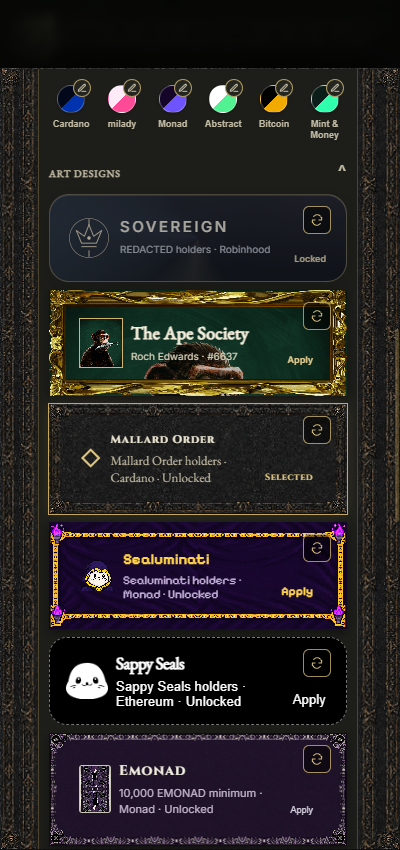
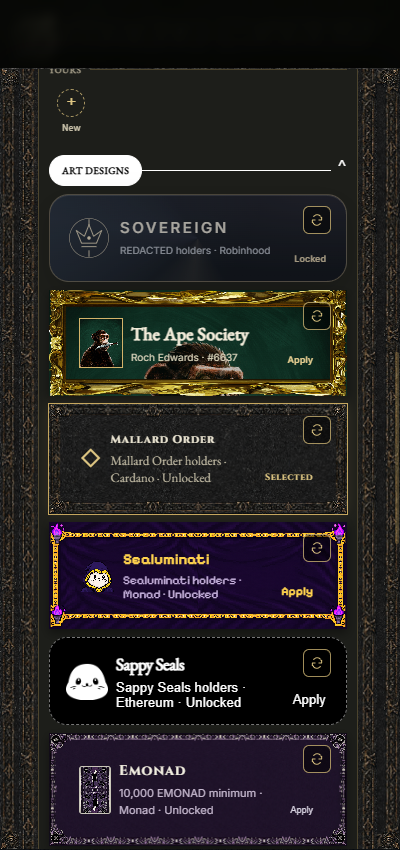
theme category fixes

diff --git a/src/renderer/pages/SettingsModal.tsx b/src/renderer/pages/SettingsModal.tsx
@@ -545,31 +545,6 @@ export function SettingsModal({ onClose, onDeleteWallet }: Props) {
                 onEdit={() => setThemeEditor({ kind: 'builtin', def: t })}
               />
             ))}
-            {[{name:'Art Designs',material:false},{name:'Material Designs',material:true}].map(group => (
-              <details key={group.name} className="theme-design-section" open>
-                <summary>{group.name}<span aria-hidden="true">⌄</span></summary>
-                <div className="theme-design-list">
-            {THEMES.filter(t => t.art && !!t.material === group.material).map(t => (
-              <div key={t.id} className="art-theme-entry">
-              <button
-                type="button"
-                className={`art-theme-card art-theme-${t.id}${theme === t.id && collectionAccess.allowed(t.id) && (t.id !== 'sovereign' || sovereignAllowed()) && (t.id !== 'ape-society' || apeAccess.allowed()) ? ' active' : ''}`}
-                aria-pressed={theme === t.id && collectionAccess.allowed(t.id) && (t.id !== 'sovereign' || sovereignAllowed()) && (t.id !== 'ape-society' || apeAccess.allowed())}
-                disabled={!collectionAccess.allowed(t.id) || t.id === 'sovereign' && !sovereignAllowed() || t.id === 'ape-society' && !apeAccess.allowed()}
-                onClick={() => { setTheme(t.id); setThemeState(t.id) }}
-              >
-                <span className="art-theme-mark" aria-hidden="true">◇</span>
-                <span className="art-theme-copy"><strong>{t.name}</strong><span>{isCollectionTheme(t.id) ? collectionAccess.get(t.id).status === 'error' ? 'Ownership unavailable · Retry' : COLLECTION_GATES[t.id].requirement + (collectionAccess.allowed(t.id) ? ' · Unlocked' : '') : t.id === 'sovereign' ? holderAccess.status === 'owned' ? privacy === false ? `${holderAccess.balance} REDACTED · Unlocked` : 'REDACTED verified · Unlocked' : holderAccess.status === 'error' ? 'Ownership unavailable · Retry' : 'REDACTED holders · Robinhood' : t.id === 'ape-society' ? apeAccess.allowed() ? `${apeState.selected?.name} · #${apeState.selected?.id}` : apeState.status === 'error' ? 'Ownership or artwork unavailable · Retry' : 'Ape Society holders · Ethereum' : t.artDescription}</span></span>
-                <span className="art-theme-status">{isCollectionTheme(t.id) && !collectionAccess.allowed(t.id) ? collectionAccess.get(t.id).checking ? 'Checking' : 'Locked' : t.id === 'ape-society' && !apeAccess.allowed() ? apeState.status==='checking' ? 'Checking' : 'Locked' : t.id === 'sovereign' && !sovereignAllowed() ? holderAccess.checking ? 'Checking' : 'Locked' : theme === t.id ? 'Selected' : 'Apply'}</span>
-              </button>
-              {(isCollectionTheme(t.id) || t.id === 'sovereign' || t.id === 'ape-society') && <button type="button" className="holder-theme-refresh" aria-label={isCollectionTheme(t.id) ? `Refresh ${t.name} ownership` : t.id === 'sovereign' ? 'Recheck ownership' : 'Refresh owned apes'} title={isCollectionTheme(t.id) ? `Refresh ${t.name} ownership` : t.id === 'sovereign' ? 'Recheck ownership' : 'Refresh owned apes'} disabled={isCollectionTheme(t.id) ? collectionAccess.get(t.id).checking : t.id === 'sovereign' ? holderAccess.checking : apeState.status === 'checking'} onClick={() => { if(isCollectionTheme(t.id))void collectionAccess.refresh(t.id);else if(t.id === 'sovereign')void refreshSovereignAccess();else void apeAccess.refresh() }}><svg width="14" height="14" viewBox="0 0 24 24" fill="none" stroke="currentColor" strokeWidth="1.6" aria-hidden="true"><path d="M20 7v5h-5M4 17v-5h5"/><path d="M6 7a7 7 0 0 1 12-1l2 3M4 15l2 3a7 7 0 0 0 12-1"/></svg></button>}
-              {t.id==='sappy-seals-art' && theme===t.id && collectionAccess.allowed(t.id) && <SappySealAppearance/>}
-              {t.id === 'ape-society' && theme === t.id && apeAccess.allowed() && <ApeThemePicker />}
-              </div>
-            ))}
-                </div>
-              </details>
-            ))}
             <div className="theme-picker-group">Yours</div>
             {customThemes.map(t => (
               <ThemeSwatch
@@ -593,6 +568,31 @@ export function SettingsModal({ onClose, onDeleteWallet }: Props) {
                 <span className="theme-swatch-name">New</span>
               </button>
             )}
+            {[{name:'Art Designs',material:false},{name:'Material Designs',material:true}].map(group => (
+              <details key={group.name} className="theme-design-section">
+                <summary><span className="theme-design-label">{group.name}</span><span className="theme-design-line" aria-hidden="true"/><span className="theme-design-chevron" aria-hidden="true">⌄</span></summary>
+                <div className="theme-design-list">
+            {THEMES.filter(t => t.art && !!t.material === group.material).map(t => (
+              <div key={t.id} className="art-theme-entry">
+              <button
+                type="button"
+                className={`art-theme-card art-theme-${t.id}${theme === t.id && collectionAccess.allowed(t.id) && (t.id !== 'sovereign' || sovereignAllowed()) && (t.id !== 'ape-society' || apeAccess.allowed()) ? ' active' : ''}`}
+                aria-pressed={theme === t.id && collectionAccess.allowed(t.id) && (t.id !== 'sovereign' || sovereignAllowed()) && (t.id !== 'ape-society' || apeAccess.allowed())}
+                disabled={!collectionAccess.allowed(t.id) || t.id === 'sovereign' && !sovereignAllowed() || t.id === 'ape-society' && !apeAccess.allowed()}
+                onClick={() => { setTheme(t.id); setThemeState(t.id) }}
+              >
+                <span className="art-theme-mark" aria-hidden="true">◇</span>
+                <span className="art-theme-copy"><strong>{t.name}</strong><span>{isCollectionTheme(t.id) ? collectionAccess.get(t.id).status === 'error' ? 'Ownership unavailable · Retry' : COLLECTION_GATES[t.id].requirement + (collectionAccess.allowed(t.id) ? ' · Unlocked' : '') : t.id === 'sovereign' ? holderAccess.status === 'owned' ? privacy === false ? `${holderAccess.balance} REDACTED · Unlocked` : 'REDACTED verified · Unlocked' : holderAccess.status === 'error' ? 'Ownership unavailable · Retry' : 'REDACTED holders · Robinhood' : t.id === 'ape-society' ? apeAccess.allowed() ? `${apeState.selected?.name} · #${apeState.selected?.id}` : apeState.status === 'error' ? 'Ownership or artwork unavailable · Retry' : 'Ape Society holders · Ethereum' : t.artDescription}</span></span>
+                <span className="art-theme-status">{isCollectionTheme(t.id) && !collectionAccess.allowed(t.id) ? collectionAccess.get(t.id).checking ? 'Checking' : 'Locked' : t.id === 'ape-society' && !apeAccess.allowed() ? apeState.status==='checking' ? 'Checking' : 'Locked' : t.id === 'sovereign' && !sovereignAllowed() ? holderAccess.checking ? 'Checking' : 'Locked' : theme === t.id ? 'Selected' : 'Apply'}</span>
+              </button>
+              {(isCollectionTheme(t.id) || t.id === 'sovereign' || t.id === 'ape-society') && <button type="button" className="holder-theme-refresh" aria-label={isCollectionTheme(t.id) ? `Refresh ${t.name} ownership` : t.id === 'sovereign' ? 'Recheck ownership' : 'Refresh owned apes'} title={isCollectionTheme(t.id) ? `Refresh ${t.name} ownership` : t.id === 'sovereign' ? 'Recheck ownership' : 'Refresh owned apes'} disabled={isCollectionTheme(t.id) ? collectionAccess.get(t.id).checking : t.id === 'sovereign' ? holderAccess.checking : apeState.status === 'checking'} onClick={() => { if(isCollectionTheme(t.id))void collectionAccess.refresh(t.id);else if(t.id === 'sovereign')void refreshSovereignAccess();else void apeAccess.refresh() }}><svg width="14" height="14" viewBox="0 0 24 24" fill="none" stroke="currentColor" strokeWidth="1.6" aria-hidden="true"><path d="M20 7v5h-5M4 17v-5h5"/><path d="M6 7a7 7 0 0 1 12-1l2 3M4 15l2 3a7 7 0 0 0 12-1"/></svg></button>}
+              {t.id==='sappy-seals-art' && theme===t.id && collectionAccess.allowed(t.id) && <SappySealAppearance/>}
+              {t.id === 'ape-society' && theme === t.id && apeAccess.allowed() && <ApeThemePicker />}
+              </div>
+            ))}
+                </div>
+              </details>
+            ))}
           </div>
           <p className="theme-picker-note">
             {`Tap the pencil to recolour a colour theme — a built-in can be reverted to how it shipped at any time. Art themes also change the artwork, borders and fonts. `}

diff --git a/e2e/art-themes.spec.ts b/e2e/art-themes.spec.ts
@@ -1,3 +1,4 @@
+import { expandThemeDesigns } from './support/theme-designs'
 import { installCollectionFixture } from './collection-fixture'
 import { installApeFixture } from './ape-fixture'
 import { expect, test, chromium } from '@playwright/test'
@@ -85,6 +86,11 @@ test(`${theme.name} selects, persists, previews cleanly and leaves other themes 
       await expect(artSection.locator('.art-theme-card')).toHaveCount(7)
       await expect(materials.locator('.art-theme-card')).toHaveCount(6)
       await expect(artSection.locator('.art-theme-liquid-glass')).toHaveCount(0)
+      await expect(artSection).not.toHaveAttribute('open');await expect(materials).not.toHaveAttribute('open')
+      expect(await page.locator('.theme-swatch-new').evaluate(el=>!!(el.compareDocumentPosition(document.querySelector('details.theme-design-section')!)&Node.DOCUMENT_POSITION_FOLLOWING))).toBe(true)
+      for(const section of [artSection,materials]){await expect(section.locator('.theme-design-label')).toHaveCSS('background-color','rgb(255, 255, 255)');await expect(section.locator('.theme-design-label')).toHaveCSS('color','rgb(0, 0, 0)');await expect(section.locator('.theme-design-line')).toHaveCSS('background-color','rgb(255, 255, 255)')}
+      await artSection.locator('summary').click();await expect(artSection.locator('.art-theme-mallard-order')).toBeVisible();await expect(materials.locator('.art-theme-liquid-glass')).toBeHidden()
+      await materials.locator('summary').click()
       await artSection.locator('summary').click();await expect(artSection.locator('.art-theme-mallard-order')).toBeHidden()
       await expect(materials.locator('.art-theme-liquid-glass')).toBeVisible()
       await materials.locator('summary').click();await expect(materials.locator('.art-theme-liquid-glass')).toBeHidden()
@@ -92,6 +98,7 @@ test(`${theme.name} selects, persists, previews cleanly and leaves other themes 
       await artSection.locator('summary').focus();await page.keyboard.press('Enter');await expect(artSection.locator('.art-theme-mallard-order')).toBeVisible()
       await materials.locator('summary').click();await expect(materials.locator('.art-theme-liquid-glass')).toBeVisible()
     }
+    await expandThemeDesigns(page)
     const art = page.getByRole('button', { name: new RegExp(`^${theme.name}`) })
     if (theme.id === 'emonad') {
       const ids = await page.locator('.art-theme-card').evaluateAll(els => els.map(el => el.className))
@@ -232,6 +239,7 @@ test(`${theme.name} selects, persists, previews cleanly and leaves other themes 
     await page.screenshot({ path: `test-results/${theme.id}-swap-400.png` })
     await page.locator('.bottom-nav-btn').filter({ hasText: /^Portfolio$/i }).click()
     await page.locator('button[title="Settings"]').filter({ visible: true }).first().click()
+    await expandThemeDesigns(page)
     await page.locator('.theme-swatch-new').click()
     await expect(page.locator('html')).toHaveAttribute('data-theme', 'custom-preview')
     await expect(page.locator('.chain-card').first()).toHaveCSS('border-image-source', 'none')
@@ -252,6 +260,7 @@ test(`${theme.name} selects, persists, previews cleanly and leaves other themes 
     expect(await page.evaluate(() => localStorage.getItem('mm.theme'))).toBe(theme.id)
     if(theme.id === 'ape-society') {
       await page.locator('button[title="Settings"]').filter({visible:true}).first().click()
+    await expandThemeDesigns(page)
       const selector=page.getByRole('combobox',{name:'Theme ape',exact:true})
       await expect(selector).toBeVisible()
       await expect(page.getByRole('button',{name:'Refresh owned apes',exact:true})).toHaveCSS('width','28px')
@@ -264,6 +273,7 @@ test(`${theme.name} selects, persists, previews cleanly and leaves other themes 
       await expect(page.locator('html')).toHaveAttribute('data-theme','ape-society')
       await expect.poll(()=>page.evaluate(()=>document.documentElement.style.getPropertyValue('--ape-portrait'))).toContain('/6638.jpg')
       await page.locator('button[title="Settings"]').filter({visible:true}).first().click()
+    await expandThemeDesigns(page)
       apeControl.balance=0
       await page.getByRole('button',{name:'Refresh owned apes',exact:true}).click()
       await expect(art).toBeDisabled()
@@ -276,6 +286,7 @@ test(`${theme.name} selects, persists, previews cleanly and leaves other themes 
     }
     if(['mallard-order','sealuminati','r3tards','emonad','sappy-seals-art'].includes(theme.id)){
       await page.locator('button[title="Settings"]').filter({visible:true}).first().click()
+    await expandThemeDesigns(page)
       const refresh=page.getByRole('button',{name:`Refresh ${theme.name} ownership`,exact:true})
       await expect(refresh).toHaveCSS('width','28px')
       await art.scrollIntoViewIfNeeded();await page.screenshot({path:`.local-artifacts/collection-gates/${theme.id}-wallet.png`})

diff --git a/e2e/textures.spec.ts b/e2e/textures.spec.ts
@@ -1,3 +1,4 @@
+import { expandThemeDesigns } from './support/theme-designs'
 import { installCollectionFixture } from './collection-fixture'
 import { expect, test, chromium } from '@playwright/test'
 import { mkdtempSync } from 'node:fs'
@@ -60,6 +61,7 @@ test('textures compose with palettes and restore correctly', async () => {
     await page.getByText('Encrypt & Continue').click()
     await expect(page.getByText('Portfolio').first()).toBeVisible({ timeout: 30_000 })
     await page.locator('button[title="Settings"]').filter({ visible: true }).first().click()
+    await expandThemeDesigns(page)
 
     const choose = async (name: string) => {
       await page.locator('.texture-choice').filter({ hasText: new RegExp(`^${name}$`) }).click()
@@ -80,6 +82,7 @@ test('textures compose with palettes and restore correctly', async () => {
       await settle()
       await page.screenshot({ path: `test-results/texture-${id}-400.png` })
       await page.locator('button[title="Settings"]').filter({ visible: true }).first().click()
+    await expandThemeDesigns(page)
     }
     await twoToneSwitch.click()
     await expect(page.locator('html')).toHaveAttribute('data-surface-tone', 'layered')
@@ -88,6 +91,7 @@ test('textures compose with palettes and restore correctly', async () => {
     await settle()
     await page.screenshot({ path: 'test-results/texture-fade-two-tone-wallet-400.png' })
     await page.locator('button[title="Settings"]').filter({ visible: true }).first().click()
+    await expandThemeDesigns(page)
     await twoToneSwitch.click()
     for (const name of ['Moonlight','Crimson','Grape','Matrix','White & Gold','Midnight','Cardano','milady','Monad','Abstract','Bitcoin','Sappy Seals']) {
       await page.locator(`button.theme-swatch[title="${name}"]`).click()
@@ -116,6 +120,7 @@ test('textures compose with palettes and restore correctly', async () => {
     await page.screenshot({ path: 'test-results/texture-swap-400.png' })
     await page.locator('.bottom-nav-btn').filter({ hasText: /^Portfolio$/i }).click()
     await page.locator('button[title="Settings"]').filter({ visible: true }).first().click()
+    await expandThemeDesigns(page)
     await page.locator('button.theme-swatch[title="Grape"]').click()
     await choose('Glass')
     await twoToneSwitch.click()
@@ -124,6 +129,7 @@ test('textures compose with palettes and restore correctly', async () => {
     await expect(page.locator('.portfolio-header')).toHaveCSS('background-color', 'rgba(0, 0, 0, 0)')
     await page.screenshot({ path: 'test-results/texture-glass-lit-wallet-400.png' })
     await page.locator('button[title="Settings"]').filter({ visible: true }).first().click()
+    await expandThemeDesigns(page)
     await twoToneSwitch.click()
     await choose('Fine Grain')
     await page.getByRole('button', { name: /Liquid Glass/ }).click()
@@ -152,6 +158,7 @@ test('textures compose with palettes and restore correctly', async () => {
     await page.screenshot({path:'test-results/liquid-glass-swap-wallet.png'})
     await page.locator('.bottom-nav-btn').filter({hasText:/^Portfolio$/i}).click()
     await page.locator('button[title="Settings"]').filter({visible:true}).first().click()
+    await expandThemeDesigns(page)
     await choose('Fine Grain')
     await twoToneSwitch.click()
     await page.getByRole('button', { name: /^Mallard Order/ }).click()
@@ -167,6 +174,7 @@ test('textures compose with palettes and restore correctly', async () => {
     await expect(page.locator('html')).toHaveAttribute('data-surface-tone', 'matching')
     await expect(page.locator('html')).toHaveAttribute('data-material-active', '')
     await page.locator('button[title="Settings"]').filter({ visible: true }).first().click()
+    await expandThemeDesigns(page)
     await choose('Glass')
     await expect(page.locator('html')).not.toHaveAttribute('data-material-active')
     await expect(page.locator('.chain-card').first()).toHaveCSS('backdrop-filter', 'blur(22px) saturate(1.55)')

diff --git a/e2e/natural-materials.spec.ts b/e2e/natural-materials.spec.ts
@@ -1,3 +1,4 @@
+import { expandThemeDesigns } from './support/theme-designs'
 import { expect, test, chromium } from '@playwright/test'
 import { mkdtempSync } from 'node:fs'
 import { tmpdir } from 'node:os'
@@ -58,6 +59,7 @@ test('natural material skins preserve layout and actions', async () => {
     await page.getByText('Encrypt & Continue').click()
     await expect(page.getByText('Portfolio').first()).toBeVisible({ timeout: 30_000 })
     await page.locator('button[title="Settings"]').filter({ visible: true }).first().click()
+    await expandThemeDesigns(page)
 
 
     const materials = [['brushed-metal','Brushed Metal'],['leather','Leather'],['velvet','Velvet'],['walnut','Walnut'],['royal-silk','Royal Blue Silk']]
@@ -86,6 +88,7 @@ test('natural material skins preserve layout and actions', async () => {
       await settle(); await page.screenshot({path:`test-results/material-${id}-swap.png`})
       await page.locator('.bottom-nav-btn').filter({hasText:/^Portfolio$/i}).click()
       await page.locator('button[title="Settings"]').filter({visible:true}).first().click()
+    await expandThemeDesigns(page)
     }
     await page.locator('.theme-swatch-new').click()
     await expect(page.locator('html')).toHaveAttribute('data-derived')
@@ -96,6 +99,7 @@ test('natural material skins preserve layout and actions', async () => {
     await page.reload()
     await expect(page.locator('html')).toHaveAttribute('data-theme','royal-silk')
     await page.locator('button[title="Settings"]').filter({visible:true}).first().click()
+    await expandThemeDesigns(page)
     await page.locator('button.theme-swatch[title="Grape"]').click()
     await expect(page.locator('html')).toHaveAttribute('data-surface-active','')
     await expect(page.locator('.chain-card').first()).not.toHaveCSS('background-image',/materials/)

diff --git a/e2e/sovereign.spec.ts b/e2e/sovereign.spec.ts
@@ -1,3 +1,4 @@
+import { expandThemeDesigns } from './support/theme-designs'
 import { expect, test, chromium } from '@playwright/test'
 import { mkdtempSync } from 'node:fs'
 import { tmpdir } from 'node:os'
@@ -65,6 +66,7 @@ test('Sovereign motion, interactions, accessibility and theme lifecycle', async 
     await page.getByText('Encrypt & Continue').click()
     await expect(page.getByText('Portfolio').first()).toBeVisible({ timeout: 30_000 })
     await page.locator('button[title="Settings"]').filter({ visible: true }).first().click()
+    await expandThemeDesigns(page)
 
 
     await expect(page.getByRole('button', { name: /Sovereign/ })).toBeDisabled()
@@ -138,6 +140,7 @@ test('Sovereign motion, interactions, accessibility and theme lifecycle', async 
     await expect(page.locator('html')).toHaveAttribute('data-sv-motion','running')
     await page.locator('.bottom-nav-btn').filter({hasText:/^Portfolio$/i}).click()
     await page.locator('button[title="Settings"]').filter({visible:true}).first().click()
+    await expandThemeDesigns(page)
     await page.getByRole('button',{name:/Sovereign/}).scrollIntoViewIfNeeded()
     await settle(); await page.screenshot({path:'test-results/sovereign-picker.png'})
     await page.locator('.theme-swatch-new').click()
@@ -157,6 +160,7 @@ test('Sovereign motion, interactions, accessibility and theme lifecycle', async 
     await expect(page.locator('.sv-scene')).toHaveCount(1)
     expect(await page.evaluate(() => localStorage.getItem('mm.theme'))).toBe('sovereign')
     await page.locator('button[title="Settings"]').filter({visible:true}).first().click()
+    await expandThemeDesigns(page)
     holderBalance = 0
     await page.getByRole('button', {name:'Recheck ownership',exact:true}).click()
     await expect(page.locator('.sv-scene')).toHaveCount(0)

diff --git a/src/renderer/index.css b/src/renderer/index.css
@@ -2175,9 +2175,12 @@ h1, h2, h3 { font-family: var(--font-display); }
 
 /* Independent full-width disclosures preserve theme tiles and holder controls. */
 .theme-design-section { grid-column:1/-1; min-width:0; }
-.theme-design-section > summary { display:flex; align-items:center; justify-content:space-between; gap:12px; min-height:36px; padding:6px 0; color:var(--text-secondary); font-size:10px; font-weight:700; letter-spacing:.08em; text-transform:uppercase; cursor:pointer; list-style:none; }
-.theme-design-section > summary::-webkit-details-marker { display:none; }
-.theme-design-section > summary:focus-visible { outline:2px solid var(--accent); outline-offset:2px; border-radius:4px; }
-.theme-design-section > summary span { font-size:16px; line-height:1; }
-.theme-design-section[open] > summary span { transform:rotate(180deg); }
+/* White label pills with a connecting rail make each disclosure obvious. */
+.theme-design-section > summary {display:flex;align-items:center;min-height:44px;padding:6px 0;cursor:pointer;list-style:none;}
+.theme-design-section > summary::-webkit-details-marker {display:none;}
+.theme-design-section > summary:focus-visible {outline:2px solid #fff;outline-offset:3px;border-radius:999px;}
+.theme-design-label {padding:8px 12px;border:1px solid #fff;border-radius:999px;background:#fff;color:#000;font-family:var(--font-body);font-size:10px;font-weight:700;letter-spacing:.04em;text-transform:uppercase;white-space:nowrap;}
+.theme-design-line {flex:1;height:1px;background:#fff;}
+.theme-design-chevron {color:#fff;font-size:18px;line-height:1;padding-left:6px;}
+.theme-design-section[open] > summary .theme-design-chevron {transform:rotate(180deg);padding-left:0;padding-right:6px;}
 .theme-design-list { display:grid; gap:8px; padding:2px 0 6px; }

diff --git a/e2e/support/theme-designs.ts b/e2e/support/theme-designs.ts
@@ -1,0 +1,7 @@
+import type {Page} from '@playwright/test'
+/** Existing selection journeys open the new default-collapsed design groups explicitly. */
+export async function expandThemeDesigns(page:Page){
+  for(const section of await page.locator('details.theme-design-section').all()){
+    if(await section.getAttribute('open')===null)await section.locator('summary').click()
+  }
+}

diff --git a/HANDOFF.md b/HANDOFF.md
@@ -7,18 +7,19 @@ task: -
 lease_until: -
 repo: .
 verify: cmd /c "npm run typecheck && npm test"
-verified: 5dd914d · Five TS targets;four final renderer bundles;Sappy actual WebGL journey passes all13 SDK click groups, reduced-motion click suppression, final compact header/logo spacing, independent32px lift of seal-tabs-search and clear sparkline at360/400/1000. Screenshot reviewed. Existing holder/variant/reload/Send/Swap checks pass; .sappy-click-*.log. No native device QA/install/deploy. · 2026-10-12T01:58-03:00
-head: 5dd914d (main) dirty 15
-updated: 2026-10-12T01:58-03:00 · codex
+verified: c33b12e · User HEADc33b12e reconciled:final five TS targets/172files2510tests/four renderer bundles/two full Sappy-Mallard journeys pass. Default collapse,7art/6materials, white pills/black labels/rail, custom colours/New ordering, native keyboard and existing ownership/motion/variant/Send/Swap behavior verified. Screenshot reviewed; .wallet-pill-*.log. No native install/commit/deploy. · 2026-10-12T02:51-03:00
+head: c33b12e (main) dirty 15
+updated: 2026-10-12T02:51-03:00 · codex
 
 resources: -
 
 ## Now
+- Wallet theme picker matches ChainLens: builtin/custom colors/New above native default-collapsed Art Designs/Material Designs. White pills/black labels and white rail to chevron; keyboard/independent toggles, tile/gate/refresh/variant behavior retained. Five TS/172files2510tests/four renderer bundles/two Sappy-Mallard journeys pass; screenshot reviewed. .wallet-pill-*.log; .local-artifacts/design-sections/wallet-collapsed.png. User clean HEADc33b12e reconciled. No ChainLens edits/commit/deploy/phone install.
 - Sappy Seals art added locally (sappy-seals-art), Ethereum ERC721 gate0x364C828eE171616a39897688A831c2499aD972ec; Flat black/white, original locally bundled Live2D pointer/touch tracking over portfolio tabs. Correct texture.png default; texture_00.png alternate via28px shirt icon beside refresh. Seal reduced26%; heading padding16/4px, no extra margin; seal/tabs/search alone lifted32px near sparkline/plus to recover list space. Click/tap cycles all13 supplied motions; paused when reduced/hidden/offscreen. Four final renderer builds and Sappy/Mallard browser journeys pass, including measured Cubism motion, variants, reduced-motion, zero/error revocation. Final five TS targets and172files2510tests pass in .sappy-*.log; docs/SAPPY-SEALS-THEME.md; .local-artifacts/sappy-seals/. No ChainLens art adaptation/commit/deploy/install.
 - Default Sappy Seals colour preset replaced with Mint & Money (mint-money) in wallet/ChainLens: exact readonly cl_themes source custom-7aovlrf0py on requested ID ec18dcf5-3271-46fd-8029-41e5b2f39eed, bg0c1e19/accent30ffae/texte8f4ff. Old saved Sappy IDs migrate, old overrides do not carry, cached exact custom copies use absorptionv2 with built-in recolours protected. Mint migration counts were24/12colours; current wallet25 includes new Sappy art. Five TS;172files2508tests;4final bundles;wallet migration/selection/holder journey and3ChainLens colour/migration journeys pass;202Node tests. Screenshots reviewed;docs/MINT-MONEY-PRESET.md;.mint-money-*.log. No DB writes/commit/deploy/install.
 - Mallard staking coverage fixed locally after exact-user-address diagnosis: direct assets0, MallardOrder3348=1 at script address sharing wallet stake credential. Reader validates Bech32/network and locally derives stake1 credential, then checks exact account_assets only after direct0; current-session guards unchanged. Actual user-address production proof1 (.mallard-stake-live.log). Six focused tests;five TS targets;172files2505tests;four bundles;stake-only Mallard wallet journey and ChainLens Mallard journey pass;201Node tests. .mallard-stake-*.log. No phone install or website deploy; running wallet requires new build.
 - Mallard locked regression fixed locally: supplied policy correct; live website endpoint returns homepage HTML. Wallet now uses privileged getMallardOwnership direct Koios read of current unlocked payment address, reconfirmed after read; no web endpoint dependency. Canonical src/shared/mallard-policy.ts -> ChainLens mallard-policy-core.js. Five TS targets;172files2502tests;four bundles;wallet missing-HTML-endpoint/selection/refresh/reload/revocation journey and ChainLens Mallard journey pass;201Node tests. .mallard-native-*.log. Running wallet requires restart/update; no phone install or web deployment.
-- Appearance picker split into independent native Art Designs and Material Designs disclosures (six each; both initially expanded). Material metadata on Liquid Glass/Metal/Leather/Velvet/Walnut/Royal Silk; art retains gates/refresh/Ape dropdown. Keyboard/independent-collapse/selection checks and screenshots pass; .design-sections-*.log; .local-artifacts/design-sections/. No deploy/install.
+- Appearance picker split into independent native Art Designs and Material Designs disclosures (six each; both initially collapsed). Material metadata on Liquid Glass/Metal/Leather/Velvet/Walnut/Royal Silk; art retains gates/refresh/Ape dropdown. Keyboard/independent-collapse/selection checks and screenshots pass; .design-sections-*.log; .local-artifacts/design-sections/. No deploy/install.
 - Four collection gates complete locally: Mallard Cardano policy; Sealuminati/r3tards Monad ERC721; Emonad minimum10000 fungible tokens at18decimals. Shared90s proof/15s timeout/account guards; per-tile refresh; fixed-policy Cardano CORS endpoint. docs/COLLECTION-THEME-GATES.md; .collection-*.log; .local-artifacts/collection-gates/. No deploy/install.
 - Ape Society holder/owned-portrait feature complete locally: Ethereum contract0xF08Acc2f16Ddf2f5d047fcc4D39A6c528A9645af; paginated discovery candidates, block-bound balance/ownerOf/tokenURI proof, loaded IPFS art, per-owner/set token preferences,90s freshness/45s timeout/generation guards. Live production reader verifies Roch Edwards#6637; exact image downloaded/reviewed. Compact refresh icons on holder tiles and selected Ape dropdown. Five TS targets;170files2492tests;four bundles;6art/Sovereign journeys plus final selection rerun pass. docs/APE-SOCIETY-HOLDER-ACCESS.md;.ape-holder-*.log/.local-artifacts/ape-holder/. No phone install/deploy.
 - The Ape Society wallet art theme complete locally below Sovereign: unchanged supplied3PNG gold/bronze frames and Roch_Edwards painting, emerald/ivory/gold fixed palette, local Garamond, smooth logos, inset portfolio/Send/swap/Settings frames and full balances. Shared sparkline viewBox preserves every point when resized; endpoint measured inside frame. Five TS targets;169files2485tests;four renderer bundles;all5art journeys plus final Ape chart journey pass. docs/APE-SOCIETY-THEME.md; .ape-*.log/.local-artifacts/ape-society/. No commit/install/deploy.
@@ -60,7 +61,7 @@ resources: -
 - Inbound Preprod QA passed 2026-09-30; no inference of mainnet or reverse readiness. Existing Minswap executor persists terms/hash before submit.
 
 ## Next
-- User visual review; native phone install or standalone ChainLens adaptation only if requested.
+- User review; phone installation only when requested.
 
 ## Traps
 - Treat a builder 502 as a retryable no-build, not evidence of a Cardano burn. The Portal builder requests were byte-identical across wallet selections; the mode did not change what the builder received.

diff --git a/HANDOFF_LOG.md b/HANDOFF_LOG.md
@@ -397,3 +397,18 @@
 ### 2026-10-12T01:58-03:00 · codex · handoff · 5dd914d (main) dirty 15
 - Sappy click animation cycle implemented and verified; final user-directed header clearance with only seal-tabs-search lifted32px, chart clear, more list room. Four final builds and actual motion journey pass. docs/SAPPY-SEALS-THEME.md. No deploy/install.
 - next: User visual review; native phone install or standalone ChainLens adaptation only if requested.
+
+### 2026-10-12T02:46-03:00 · codex · claim · c33b12e (main) dirty 1
+- task: Match wallet collapsed disclosure pill and rail styling
+- lease until 2026-10-12T05:46-03:00
+
+### 2026-10-12T02:48-03:00 · codex · checkpoint · c33b12e (main) dirty 8
+- Wallet Art/Material groups default collapsed; matching white label pills/black text/white rail to chevron. Custom colors/New moved alongside builtin colors before groups. Updated browser journeys to expand intentionally and assert defaults/order/style/native keyboard. User HEADc33b12e; starting typecheck/unit/four renderer builds in .wallet-pill-*.log.
+- next: Verify Mallard disclosure/default screenshot and Sappy lifecycle journey; release.
+
+### 2026-10-12T02:51-03:00 · codex · verify · c33b12e (main) dirty 15
+- verified: User HEADc33b12e reconciled:final five TS targets/172files2510tests/four renderer bundles/two full Sappy-Mallard journeys pass. Default collapse,7art/6materials, white pills/black labels/rail, custom colours/New ordering, native keyboard and existing ownership/motion/variant/Send/Swap behavior verified. Screenshot reviewed; .wallet-pill-*.log. No native install/commit/deploy.
+
+### 2026-10-12T02:51-03:00 · codex · handoff · c33b12e (main) dirty 15
+- Wallet disclosures now match ChainLens pill/rail style and collapsed defaults; custom colors/New grouped with builtin colours. Five TS/2510tests/four builds/two browser journeys pass; screenshot reviewed. No phone install or deploy.
+- next: User review; phone installation only when requested.

diff --git a/docs/COLLECTION-THEME-GATES.md b/docs/COLLECTION-THEME-GATES.md
@@ -60,3 +60,5 @@ On October 11 the user provided their actual mainnet Cardano payment address. Pr
 The actual user's production gate now returns quantity1. Six focused tests cover session locking/switches, stake-only3348 coverage, wrong stake/policy and checksum/network rejection. The Mallard extension journey uses a stake-only fixture with direct quantity0 and the missing web endpoint returning HTML. `.mallard-stake-*.log` records verification. Source and regenerated ChainLens backend reader are shared. This change is local; restart/update the wallet to load the rebuilt code, and deploy ChainLens separately when authorized.
 
 Address format reference: [CIP-19](https://cips.cardano.org/cip/CIP-0019).
+
+Wallet disclosure follow-up: builtin/custom colours/New grouped before Art Designs/Material Designs; both default collapsed. White rounded label pills/black text join a white rail to the right chevron, matching ChainLens. Native keyboard/independent toggling and ownership controls retained. Five TS targets/172files2510tests/four renderer bundles/two full Sappy-Mallard journeys pass in `.wallet-pill-*.log`; screenshot `.local-artifacts/design-sections/wallet-collapsed.png`. No phone install or deployment.
